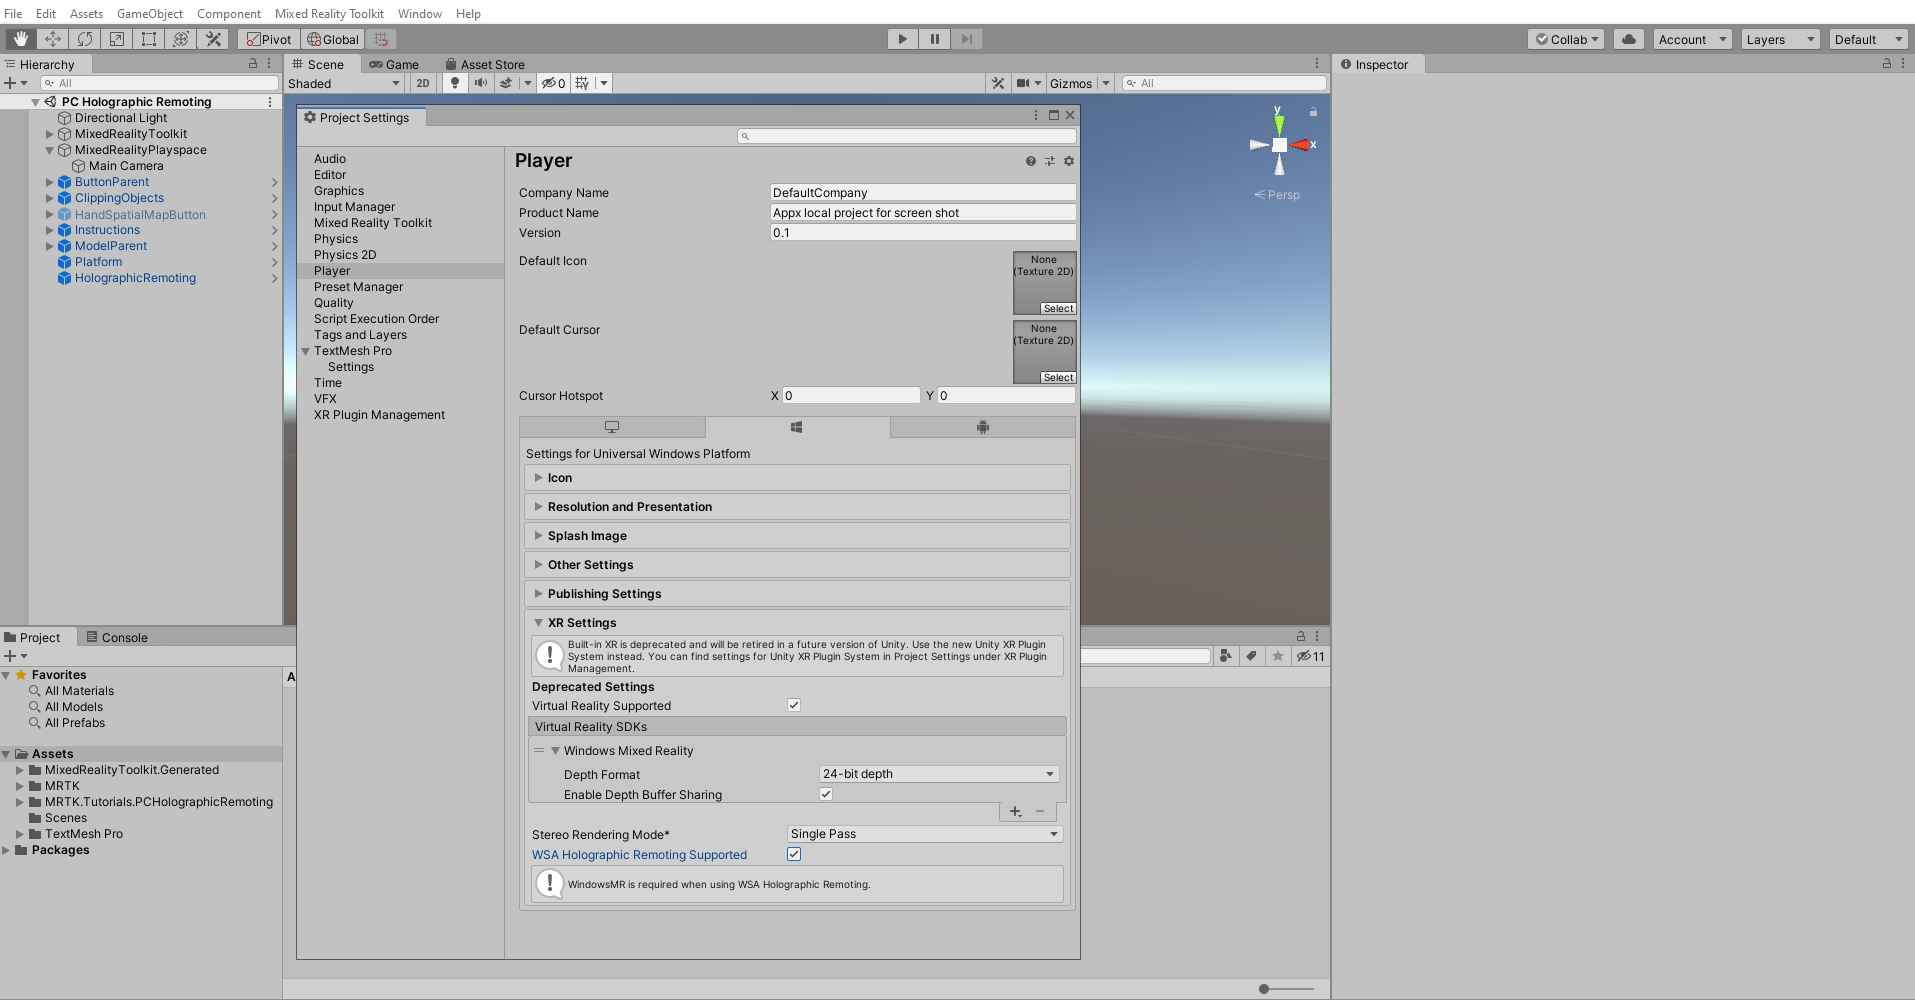
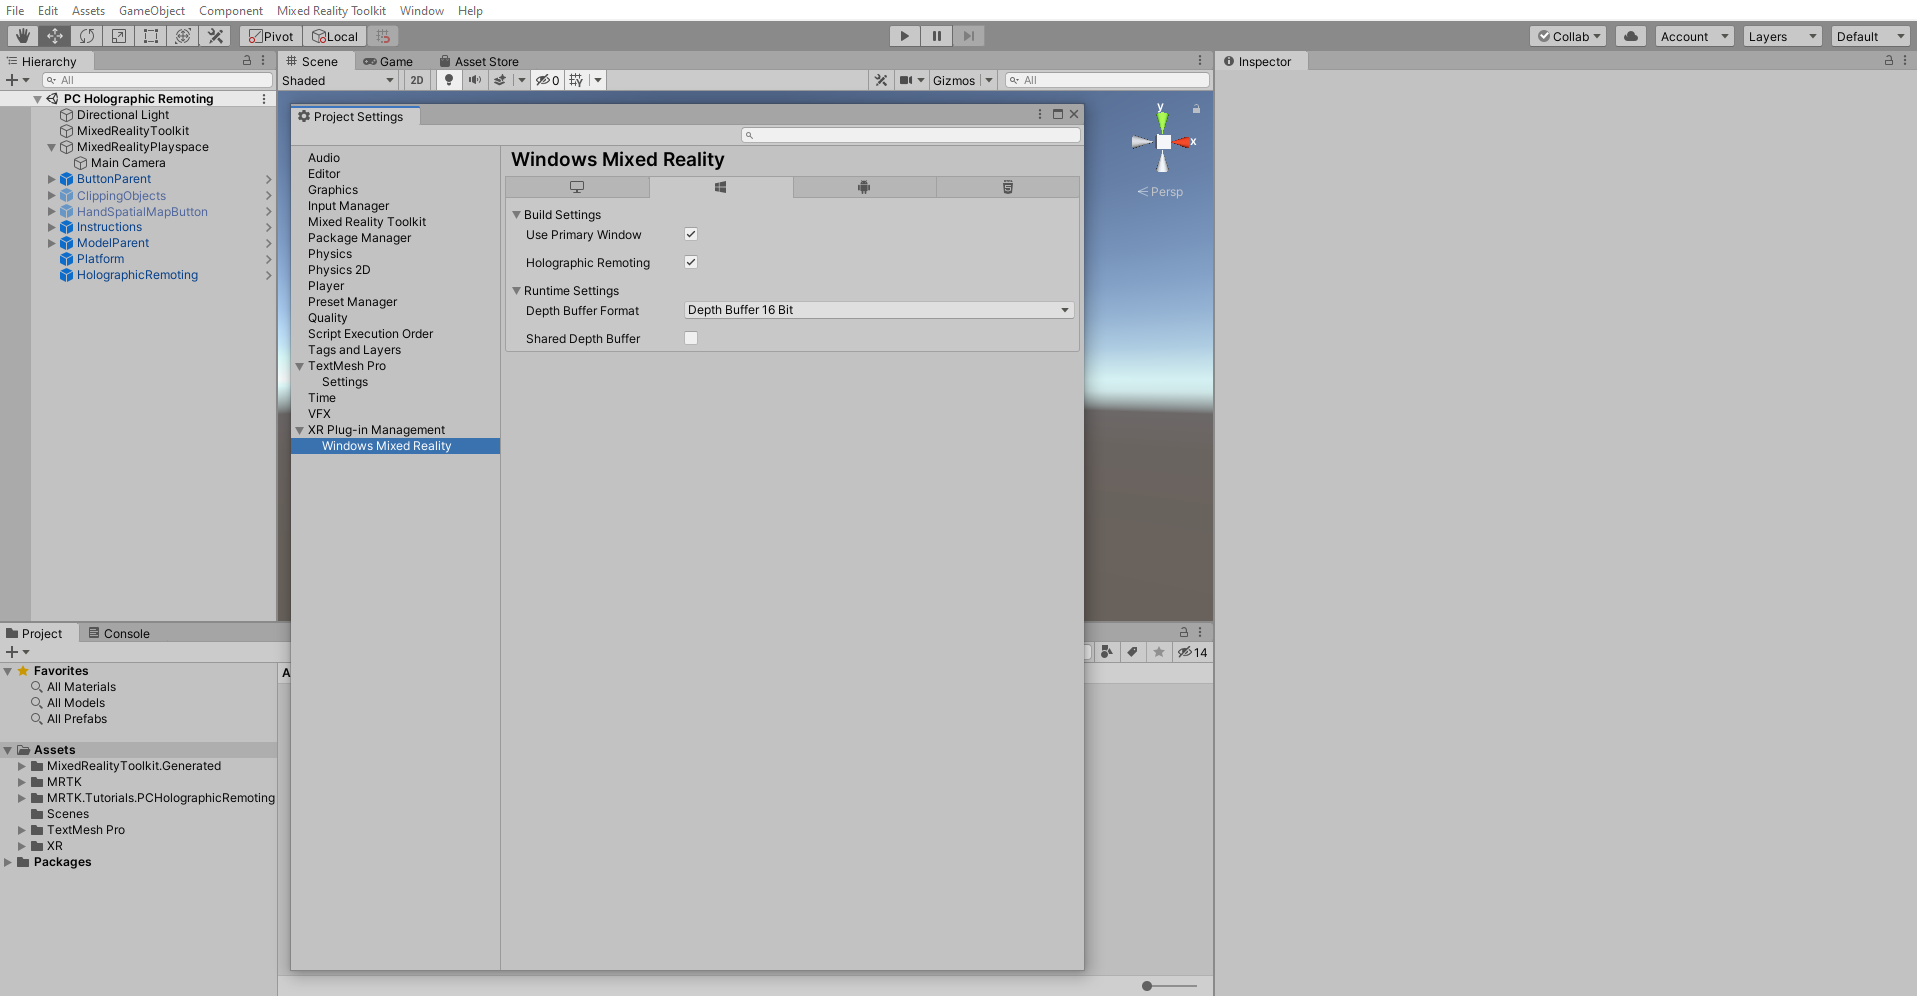
Tutorial docs and images updated

Changed region(s): [[0.0, 0.0, 1.0, 1.0], [0.7702, 0.0, 1.0, 0.0934], [0.2773, 0.3735, 0.3081, 0.4046]]

diff --git a/mixed-reality-docs/mr-dev-docs/develop/unity/tutorials/mr-learning-pc-holographic-remoting-01.md b/mixed-reality-docs/mr-dev-docs/develop/unity/tutorials/mr-learning-pc-holographic-remoting-01.md
@@ -29,13 +29,13 @@ In the second tutorial, [Create a Holographic Remoting application](mr-learning-
 * A Windows 10 PC configured with the correct [tools installed](../../install-the-tools.md)
 * Basic c# programming knowledge
 * A HoloLens 2 device [configured for development](../../platform-capabilities-and-apis/using-visual-studio.md#enabling-developer-mode)
-* <a href="https://docs.unity3d.com/Manual/GettingStartedInstallingHub.html" target="_blank">Unity Hub</a> with Unity 2019 LTS mounted, and the Universal Windows Platform Build Support module added
+* <a href="https://docs.unity3d.com/Manual/GettingStartedInstallingHub.html" target="_blank">Unity Hub</a> with Unity 2019 LTS instaled, and the Universal Windows Platform Build Support module added
 
 We **strongly recommend** completing the [Getting started](mr-learning-base-01.md) tutorials series or some basic prior experience with Unity and MRTK before continuing.
 
 > [!IMPORTANT]
+>
 > * The recommended Unity version for this tutorial series is Unity 2019 LTS. It supersedes any Unity version requirements or recommendations stated in the prerequisites linked above.
-> * Holographic Remoting with MRTK projects will only work with legacy XR. XR SDK is not supported at this time.
 
 ## Creating and preparing the Unity project
 

diff --git a/mixed-reality-docs/mr-dev-docs/develop/unity/tutorials/mr-learning-pc-holographic-remoting-02.md b/mixed-reality-docs/mr-dev-docs/develop/unity/tutorials/mr-learning-pc-holographic-remoting-02.md
@@ -40,7 +40,7 @@ In the Project Settings window, expand the **Publishing Settings**, scroll down 
 * Internet Clint server
 * Private Network Client Server
 
-In the **XR Settings** section, select the **WSA Holographic Remoting Supported** checkbox and enable the Holographic Remoting.
+In the **XR Plug-in Management > Windows Mixed Reality** section, select the **Holographic Remoting** checkbox to enable the Holographic Remoting.
 
 ![Unity XR Settings window with WSA Holographic Remoting Supported enabled](images/mrlearning-pc-holographic-remoting/Tutorial2-Section2-Step1-1.png)
 
